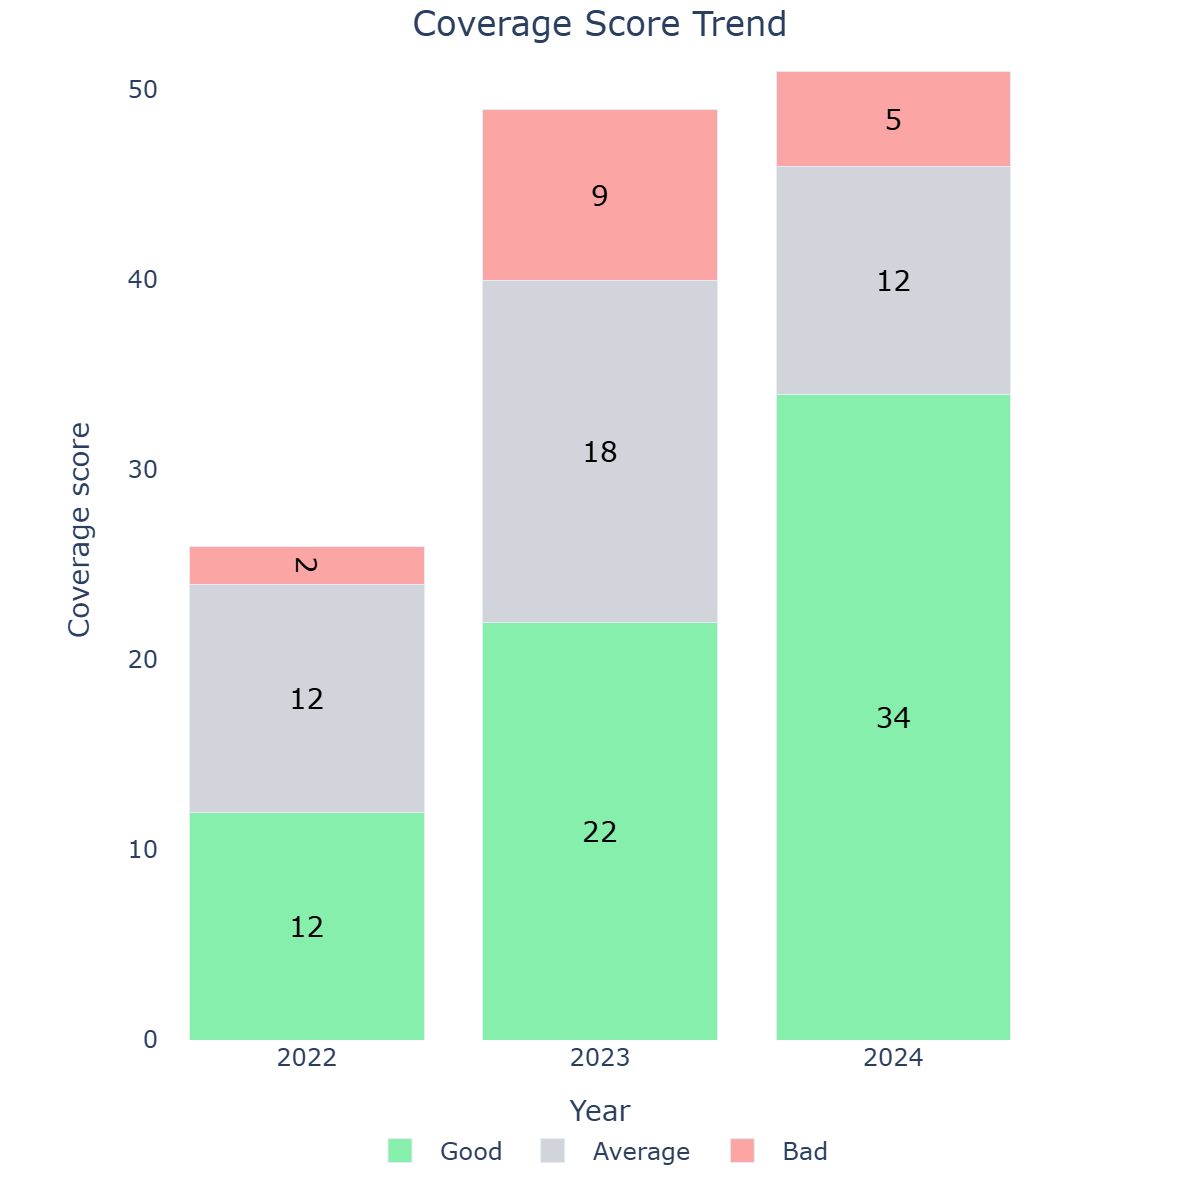
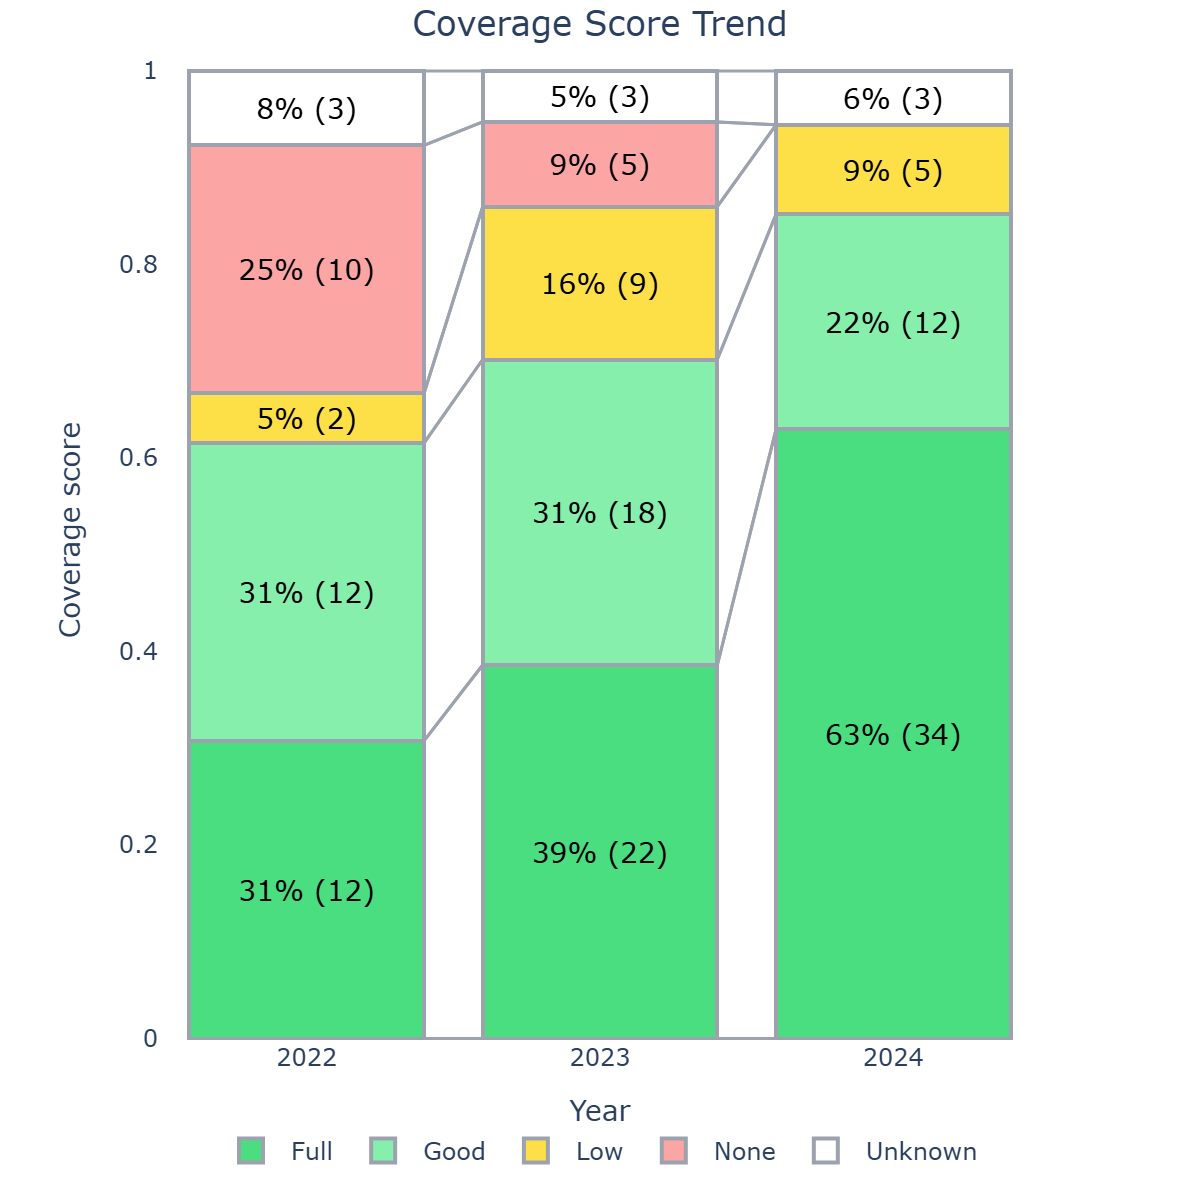
Add lines, labels, unknown category and manage  variable category sizes

diff --git a/src/report-generator/create-qsnap-bar-chart.py b/src/report-generator/create-qsnap-bar-chart.py
@@ -2,6 +2,15 @@ import pandas as pd
 import plotly.graph_objects as go
 from typing import List, Dict
 
+# Todo: Add the total number of product at the top of each column
+# Todo: Adapt the Y-axis labels to only show 0 - 0.25 - 0.5 - 0.75 - 1
+# Todo: Adapt the Y-axis labels to display % values and not decimal
+# Todo: Add axis in black for better visibility
+# Todo: Set the axis labels and values in bold for better visibility
+# Todo: Refactor the code to make it more readable and maintainable
+# Todo: Encapsulate the code to make it usable: function + data + metadata and let's go
+# Todo: On the last year, add a static tooltip listing the trigrams for None/Bad and Unknow categories
+
 
 def determine_x_axis(df: pd.DataFrame) -> List[str]:
     return df.columns.drop('Category').tolist()
@@ -9,20 +18,26 @@ def determine_x_axis(df: pd.DataFrame) -> List[str]:
 def determine_y_axis(df: pd.DataFrame) -> List[str]:
     return df['Category'].tolist()
 
-def add_bars(df: pd.DataFrame, x_axis: List[str], y_axis: List[str], colours: Dict[str, str]) -> go.Figure:
+def add_bars(df: pd.DataFrame, x_axis: List[str], y_axis: List[str], colours: Dict[str, str], labels: Dict[str, List[str]]) -> go.Figure:
 
     fig = go.Figure()
 
     for category in y_axis:
         values = df[df['Category'] == category][x_axis].values[0]
+        category_labels = labels[category]
+
         fig.add_trace(go.Bar(
             name=category,
             x=x_axis,
             y=values,
             marker={
-                'color': colours[category]
+                'color': colours[category],
+                'line': {
+                    'color': '#9CA3AF',
+                    'width': 2
+                }
             },
-            text=values,
+            text=category_labels,
             textposition='inside',
             insidetextanchor='middle',
             textfont={
@@ -67,12 +82,12 @@ def define_layout(fig: go.Figure, title: str, y_label: str, shapes: List[Dict[st
     return fig
 
 
-def compute_line_coords() -> List[Dict[str, int]]:
+def compute_line_coords(df: pd.DataFrame, x_axis: List[str]) -> List[Dict[str, int]]:
     cumulative_heights = {}
-    for year in years:
+    for year in x_axis:
         cumulative_heights[year] = {}
         cumsum = 0
-        for category in categories_order:
+        for category in df['Category'].to_list():
             value = df[df['Category'] == category][year].values[0]
             cumulative_heights[year][category] = {'bottom': cumsum, 'top': cumsum + value}
             cumsum += value
@@ -84,36 +99,47 @@ def add_connecting_lines(df: pd.DataFrame, x_axis: List[str]) -> List[Dict[str, 
     bar_positions = {year: i for i, year in enumerate(x_axis)}
     bar_width = 0.4  # Half of the actual bar width for edge alignment
 
-    line_coords: List[Dict[str, int]] = compute_line_coords()
+    line_coords: List[Dict[str, int]] = compute_line_coords(df, x_axis)
 
     shapes = []
-    shapes.append({
-        'type':'line',
-        'x0':bar_positions['2022'] + bar_width,
-        'y0':cumulative_heights['2022'][category]['top'],
-        'x1':bar_positions['2023'] - bar_width,
-        'y1':cumulative_heights['2023'][category]['top'],
-        'line': {
-            'color':line_colors[category],
-            'width':1.5
-        }
-    })
-    
+
+    for i in range(len(x_axis) - 1):
+        year_from = x_axis[i]
+        year_to = x_axis[i + 1]
+
+        for category in df['Category'].to_list():
+            for edge in ['top', 'bottom']:
+                shapes.append({
+                    'type':'line',
+                    'x0':bar_positions[year_from] + bar_width,
+                    'y0':line_coords[year_from][category][edge],
+                    'x1':bar_positions[year_to] - bar_width,
+                    'y1':line_coords[year_to][category][edge],
+                    'line': {
+                        'color':'#9CA3AF',
+                        'width':1.5
+                    }
+                })
+
     return shapes
 
 
-def qsnap_create_bar_chart(df: pd.DataFrame, metadata: Dict[str, str]) -> go.Figure:
+def qsnap_create_bar_chart(df: pd.DataFrame, metadata: Dict[str, str], labels: Dict[str, List[str]]) -> go.Figure:
 
     colours: Dict[str, str] = {
+        'Full':    '#4ADE80',   # Medium green (lighter than Good)
         'Good':    '#86EFAC',   # Light green
         'Average': '#D1D5DB',   # Light grey
-        'Bad':     '#FCA5A5'    # Light red
+        'Low':     '#FDE047',   # Light yellow (warning color)
+        'Bad':     '#FCA5A5',   # Light red
+        'None':    '#FCA5A5',   # Light red
+        'Unknown': '#FFFFFF'    # White
     }
 
     x_axis: List[str] = determine_x_axis(df)
     y_axis: List[str] = determine_y_axis(df)
 
-    fig: go.Figure = add_bars(df, x_axis, y_axis, colours)
+    fig: go.Figure = add_bars(df, x_axis, y_axis, colours, labels)
     shapes = add_connecting_lines(df, x_axis)
     fig: go.Figure = define_layout(fig, metadata['img_name'], metadata['y_label'], shapes)
     return fig
@@ -124,20 +150,79 @@ def qsnap_export_to_png_web(fig: go.Figure, image_name: str) -> None:
     fig.write_image(filename, width=600, height=600, scale=2, format="png")
 
 
+
+def compute_relative_values(df: pd.DataFrame) -> pd.DataFrame:
+    df_relative: pd.DataFrame = df.copy()
+    x_axis: List[str] = determine_x_axis(df)
+    for year in x_axis:
+        total: int = df[year].sum()
+        df_relative[year] = (df[year] / total).round(4)
+
+    return df_relative
+
+def create_labels(df_original: pd.DataFrame, df_relative: pd.DataFrame) -> dict[str, List[str]]:
+    x_axis: List[str] = determine_x_axis(df_original)
+    labels_dict = {}
+    for category in df_original['Category'].tolist():
+        original_values = df_original[df_original['Category'] == category][x_axis].values[0]
+        relative_values = df_relative[df_relative['Category'] == category][x_axis].values[0]
+        labels_dict[category] = [f"{rel * 100:.0f}% ({int(orig)})" for orig, rel in zip(original_values, relative_values)]
+
+    return labels_dict
+
+def create_labels2(df_original: pd.DataFrame, df_relative: pd.DataFrame) -> dict[str, List[str]]:
+    x_axis: List[str] = determine_x_axis(df_original)
+    labels_dict = {}
+
+    for year in x_axis:
+        original_vals = df_original[year].values
+        relative_vals = df_relative[year].values
+        categories = df_original['Category'].tolist()
+
+        # Calculate exact percentages and rounded versions
+        exact_percentages = [rel * 100 for rel in relative_vals]
+        percentages = [round(p) for p in exact_percentages]
+
+        # Adjust to ensure sum is exactly 100%
+        total = sum(percentages)
+        if total != 100:
+            # Find value with largest rounding error
+            errors = [abs(exact - rounded) for exact, rounded in zip(exact_percentages, percentages)]
+            max_error_idx = errors.index(max(errors))
+            percentages[max_error_idx] += (100 - total)
+
+        # Store labels for each category
+        for i, category in enumerate(categories):
+            if category not in labels_dict:
+                labels_dict[category] = []
+            labels_dict[category].append(f"{percentages[i]}% ({int(original_vals[i])})")
+
+    return labels_dict
+
+
 if __name__ == "__main__":
 
     data = {
-        'Category': ['Good', 'Average', 'Bad'],
-        '2022': [12, 12, 2],
-        '2023': [22, 18, 9],
-        '2024': [34, 12, 5]
+        'Category': ['Good', 'Average', 'Bad', 'Unknown'],
+        '2022': [12, 12, 2, 10],
+        '2023': [22, 18, 9, 5],
+        '2024': [34, 12, 5, 0]
+    }
+
+    data = {
+        'Category': ['Full', 'Good', 'Low', 'None', 'Unknown'],
+        '2022': [12, 12, 2, 10, 3],
+        '2023': [22, 18, 9, 5, 3],
+        '2024': [34, 12, 5, 0, 3]
     }
     metaData = {
         'img_name': 'Coverage Score Trend',
         'y_label': 'Coverage score'
     }
     df = pd.DataFrame(data)
+    df_rel = compute_relative_values(df)
+    labels: Dict[str, List[str]] = create_labels2(df, df_rel)
 
-    fig = qsnap_create_bar_chart(df, metaData)
+    fig = qsnap_create_bar_chart(df_rel, metaData, labels)
     fig.show()
     qsnap_export_to_png_web(fig, metaData['img_name'])
